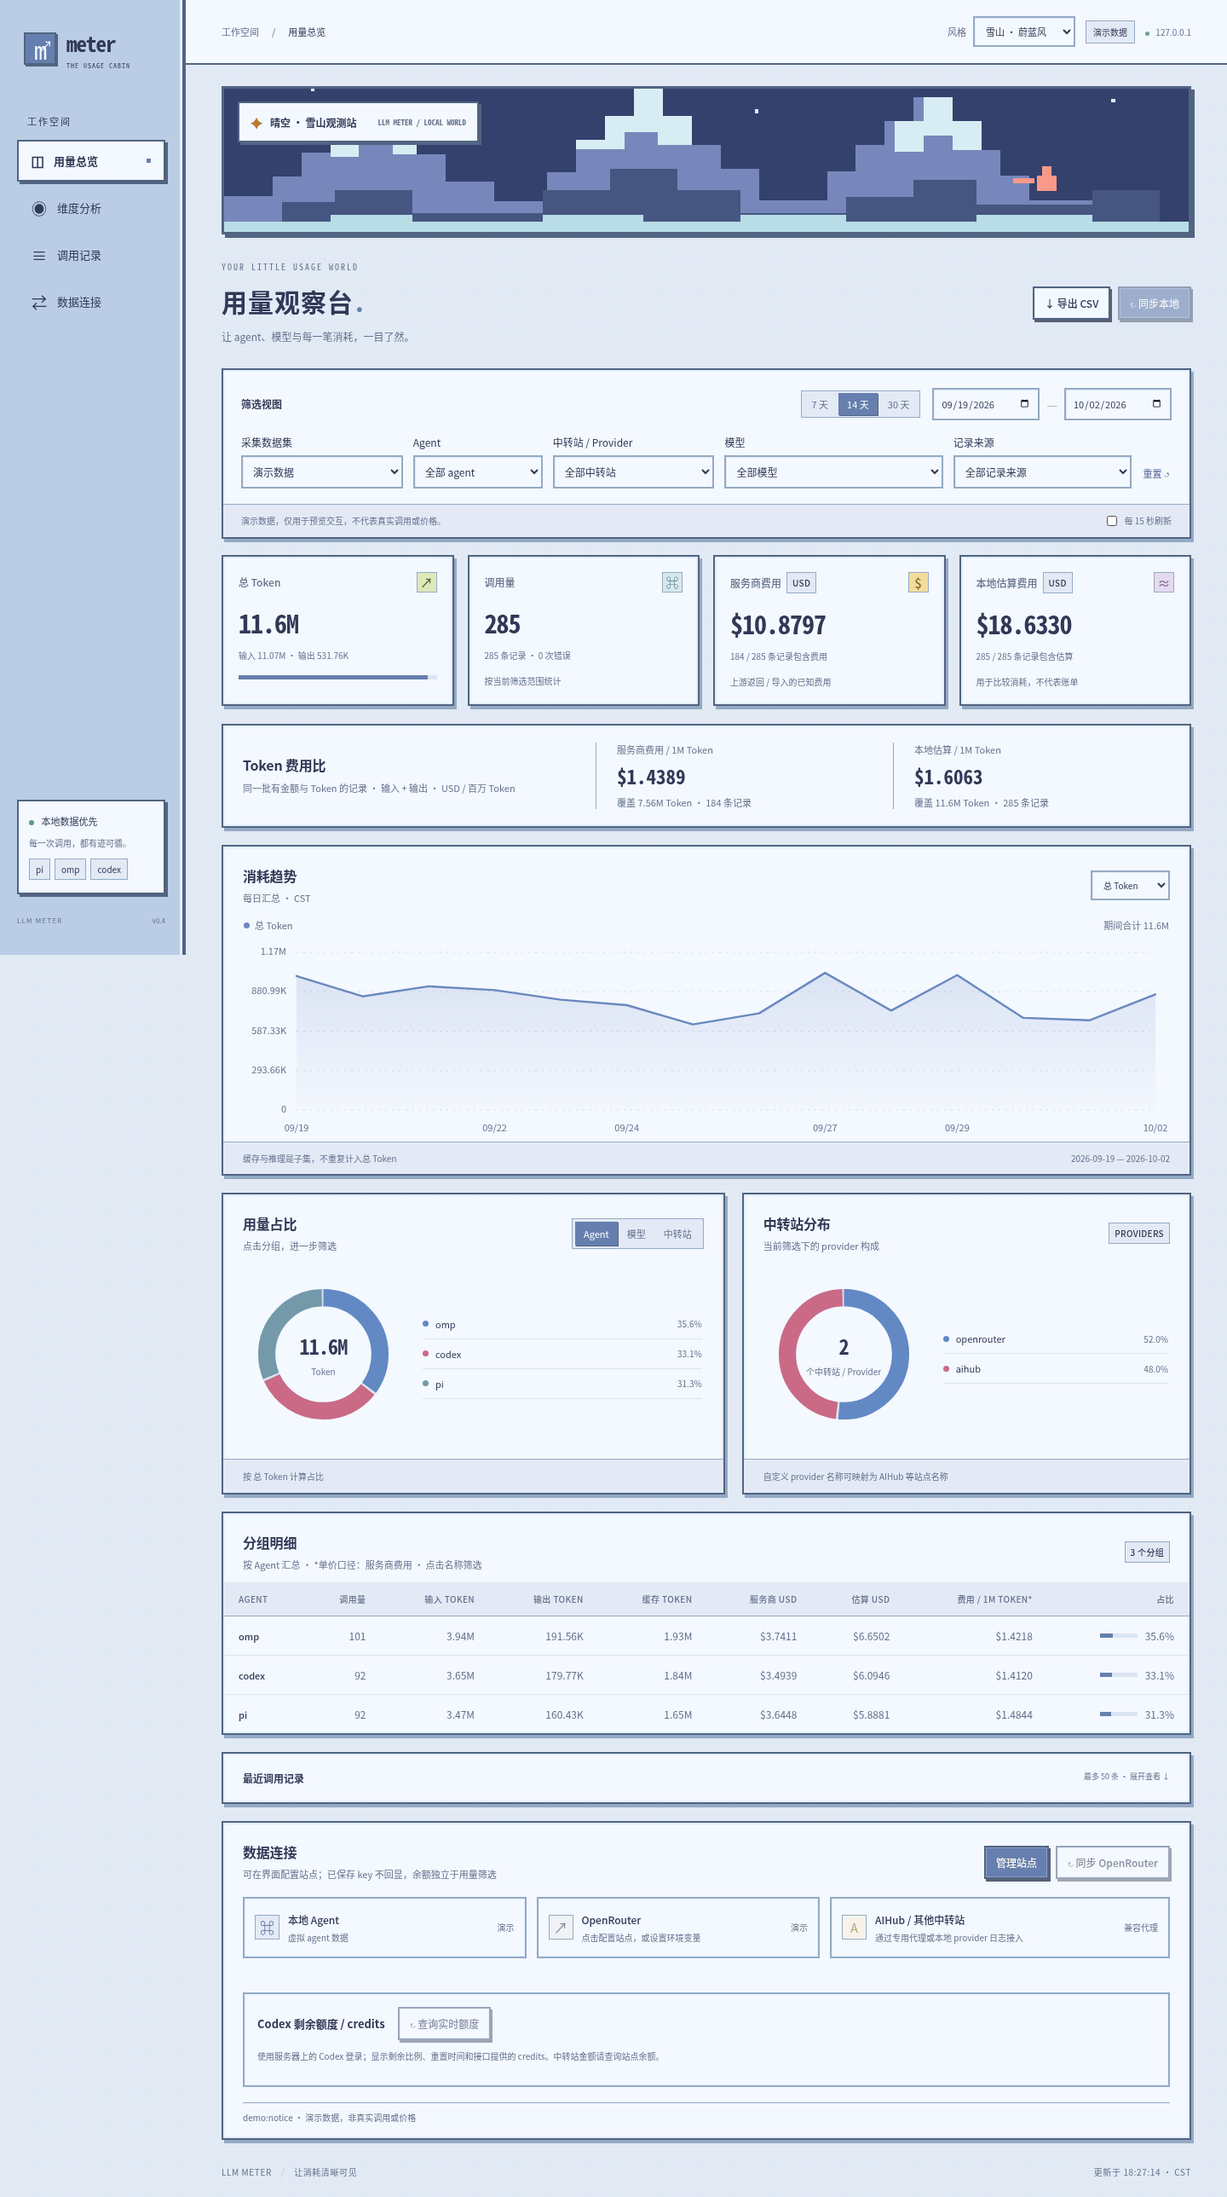
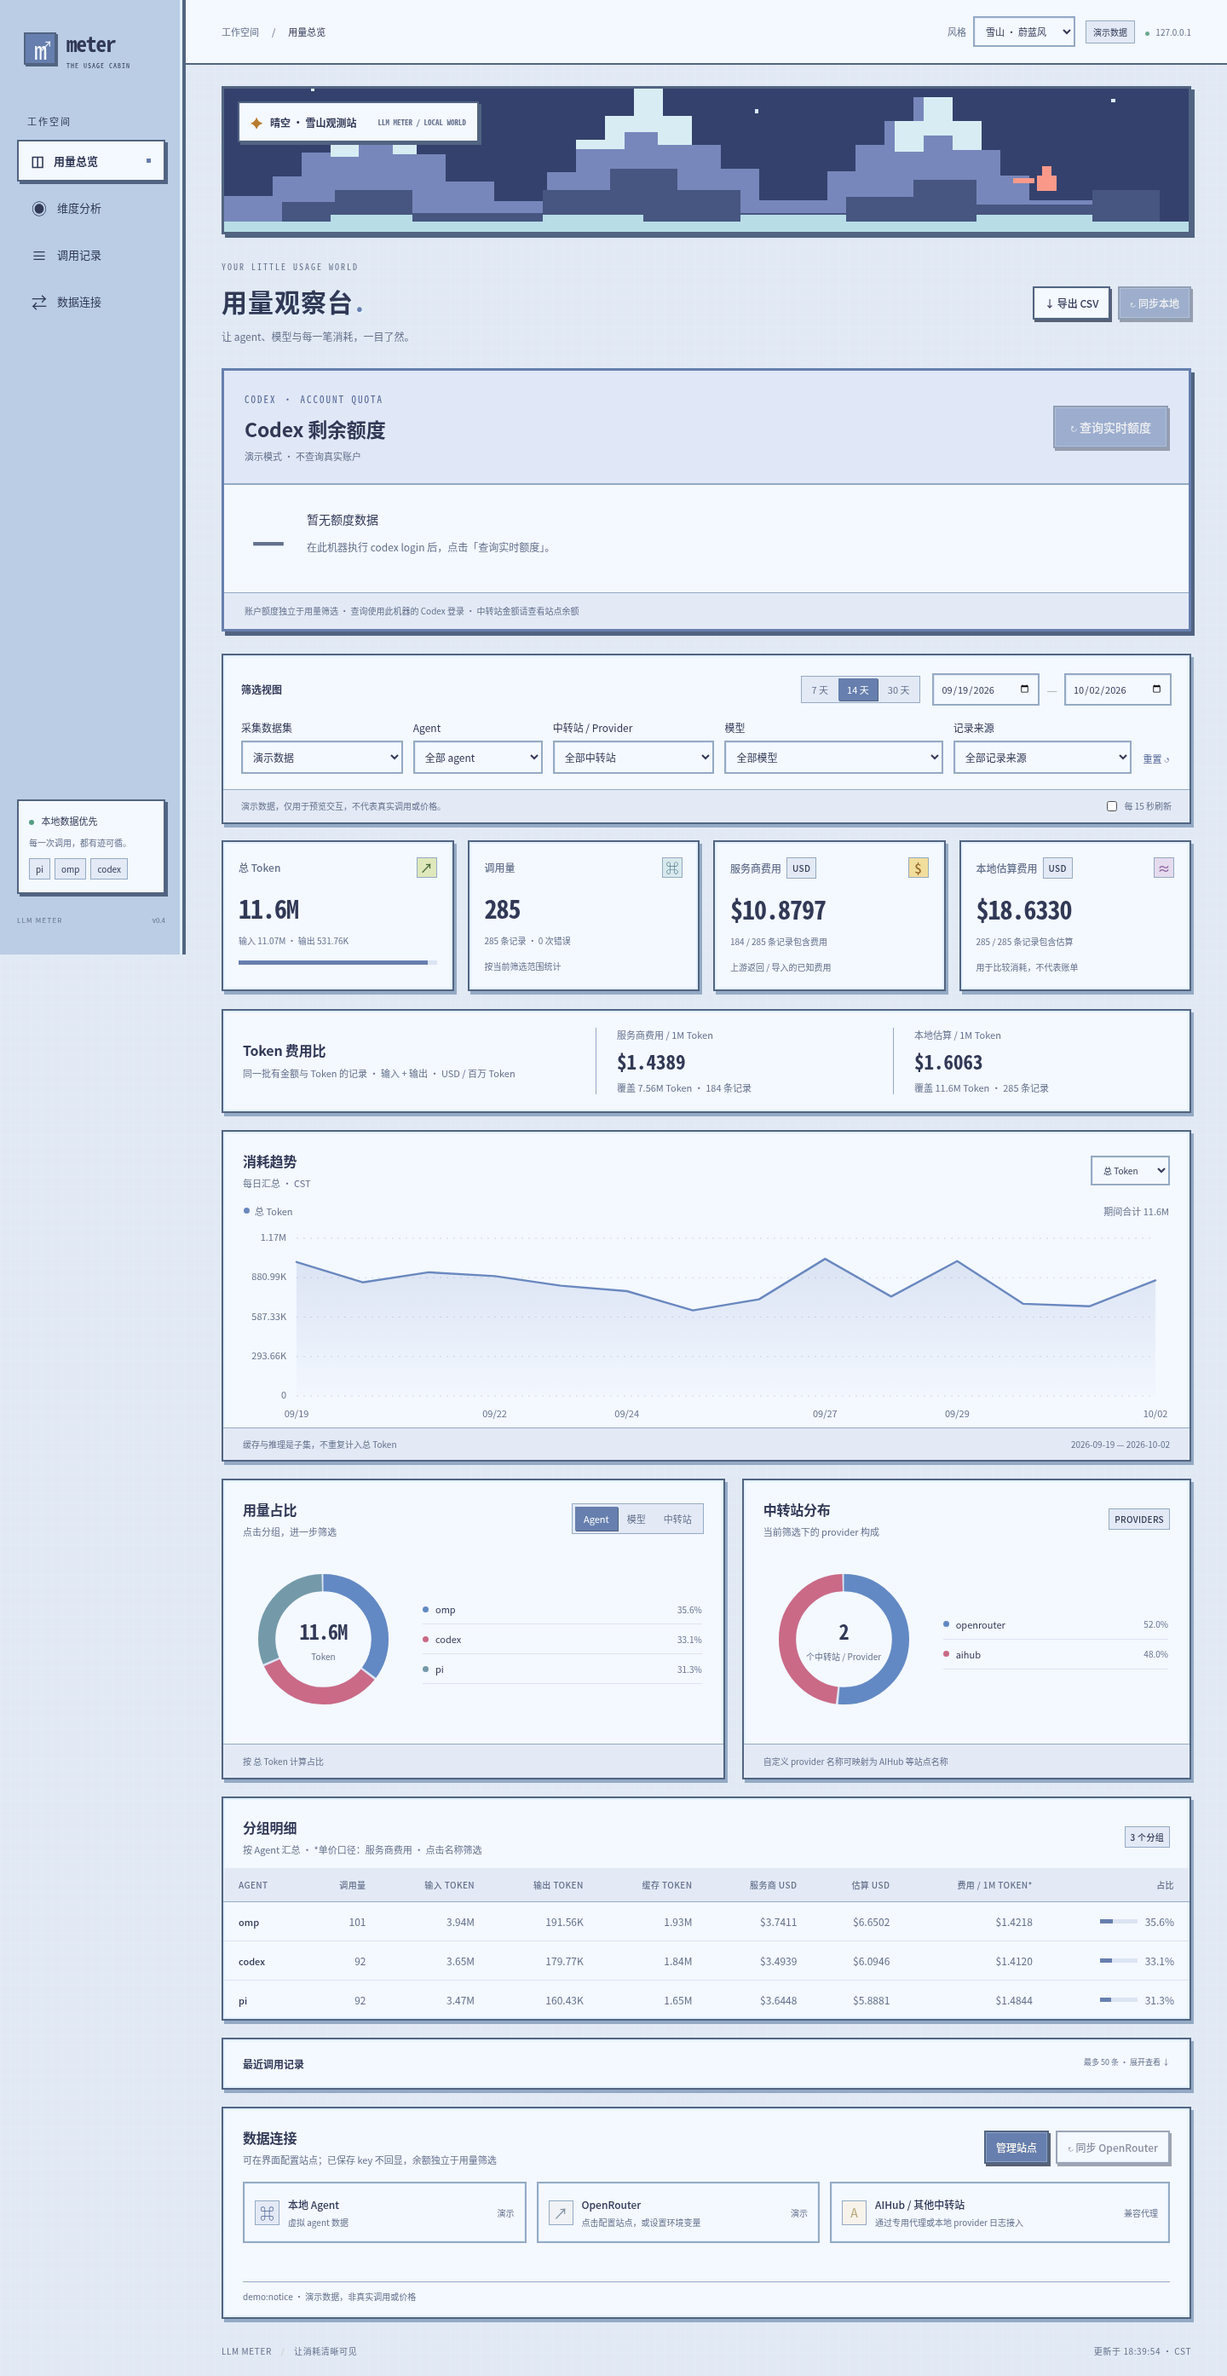
feat: highlight Codex remaining quotas at the top of dashboard

diff --git a/meter_static/app.js b/meter_static/app.js
@@ -79,7 +79,25 @@ $(svgId).querySelectorAll('[data-index]').forEach(segment=>{const g=visible[Numb
 function renderTable(groups){$('groupTable').innerHTML=groups.length?groups.map((r,i)=>`<tr><td><button class="group-button" data-index="${i}" title="${escaped(label(r.name))}">${escaped(label(r.name))}</button></td><td class="num">${full(r.requests)}</td><td class="num">${compact(r.input_tokens)}</td><td class="num">${compact(r.output_tokens)}</td><td class="num">${compact(r.cached_tokens)}</td><td class="num">${r.cost_records?dollars(r.cost):'—'}</td><td class="num">${r.estimated_cost_records?dollars(r.estimated_cost):'—'}</td><td class="num">${r[($('money').value==='estimated'?'estimated_cost':'cost')+'_per_million']===null?'—':dollars(r[($('money').value==='estimated'?'estimated_cost':'cost')+'_per_million'])}</td><td class="num"><div class="share-cell"><span class="share-bar"><i style="width:${r.share*100}%"></i></span>${(r.share*100).toFixed(1)}%</div></td></tr>`).join(''):'<tr><td colspan="9" class="empty-cell">当前筛选没有记录 · 可以切换数据集或同步本地会话</td></tr>';
 $('groupTable').querySelectorAll('[data-index]').forEach(b=>b.onclick=()=>drill(grouping,groups[Number(b.dataset.index)].name));}
 function renderRecent(rows){$('recentTable').innerHTML=rows.length?rows.map(r=>`<tr><td>${escaped(new Date(r.ts*1000).toLocaleString('zh-CN',{month:'2-digit',day:'2-digit',hour:'2-digit',minute:'2-digit'}))}</td><td>${escaped(label(r.agent))}</td><td>${escaped(label(r.provider))}</td><td title="${escaped(r.model)}">${escaped(r.model)}</td><td class="num">${compact(r.input_tokens+r.output_tokens)}</td><td class="num">${r.cost===null?'—':dollars(r.cost)}</td><td class="num">${r.estimated_cost===null?'—':dollars(r.estimated_cost)}</td><td><span class="status-chip ${['error','missing_usage'].includes(r.status)?r.status:''}">${escaped({ok:'完成',error:'错误',missing_usage:'缺少 usage'}[r.status]||r.status)}</span></td></tr>`).join(''):'<tr><td colspan="8" class="empty-cell">没有匹配的调用记录</td></tr>';}
-function renderConnections(data){const c=data.connections;const available=c.openrouter_key||c.openrouter_management;
+function renderCodexQuota(data){
+ const snapshots=data.snapshots.filter(s=>s.source.startsWith('codex:')&&s.data.rate_limits).sort((a,b)=>b.timestamp-a.timestamp);
+ const snap=snapshots[0];$('codexQuotaCards').replaceChildren();
+ if(!snap){$('codexQuotaStatus').textContent=data.demo?'演示模式 · 不查询真实账户':'尚未查询 · 点击按钮获取当前额度';$('codexQuotaCards').innerHTML='<div class="quota-empty"><strong>—</strong><div>暂无额度数据<p>在此机器执行 codex login 后，点击「查询实时额度」。</p></div></div>';return;}
+ const limits=Array.isArray(snap.data.rate_limits)?snap.data.rate_limits:[snap.data.rate_limits];
+ $('codexQuotaStatus').textContent=(snap.data.live?'实时查询结果':'日志快照')+' · '+new Date(snap.timestamp*1000).toLocaleString('zh-CN')+' · '+snap.source+(Date.now()/1000-snap.timestamp>300?' · 数据较旧，建议重新查询':'');
+ for(const limit of limits){if(!limit)continue;for(const key of ['primary','secondary']){const w=limit[key];if(!w)continue;
+ const raw=w.usedPercent??w.used_percent;const used=raw==null?NaN:Number(raw);const remaining=Number.isFinite(used)?Math.max(0,Math.min(100,100-used)):null;
+ const minutes=w.windowDurationMins??w.window_minutes;const reset=w.resetsAt??w.resets_at;
+ const title=(limit.limitName||limit.limitId||snap.source.replace('codex:',''))+' · '+(key==='primary'?'主额度':'次额度');
+ const value=remaining===null?'未知':new Intl.NumberFormat('zh-CN',{maximumFractionDigits:1}).format(remaining)+'%';
+ const card=document.createElement('article');card.className='quota-card'+(remaining!==null&&remaining<=10?' depleted':remaining!==null&&remaining<=25?' low':'');
+ card.innerHTML=`<div class="quota-card-label">${escaped(title)}<span>${escaped(minutes==null?'未知窗口':minutes>=1440?minutes/1440+' 天窗口':minutes>=60?minutes/60+' 小时窗口':minutes+' 分钟窗口')}</span></div><div class="quota-value">${value}<small>剩余</small></div><div class="quota-meter" role="meter" aria-label="${escaped(title)}剩余额度" ${remaining===null?'':'aria-valuemin="0" aria-valuemax="100" aria-valuenow="'+remaining+'"'}><i style="width:${remaining??0}%"></i></div><div class="quota-reset">${remaining!==null&&remaining<=10?'额度偏低 · ':''}${reset?'重置于 '+escaped(new Date(reset*1000).toLocaleString('zh-CN')):'重置时间未提供'}</div>`;
+ $('codexQuotaCards').append(card);
+ }
+ if(limit.credits){const card=document.createElement('article');card.className='quota-card credits-card';card.innerHTML=`<div class="quota-card-label">可用 credits</div><div class="quota-value">${escaped(limit.credits.unlimited?'不限额':limit.credits.balance??'未知')}</div><div class="quota-reset">接口 credits 原值 · 非美元余额</div>`;$('codexQuotaCards').append(card);}}
+ if(!$('codexQuotaCards').childElementCount)$('codexQuotaCards').innerHTML='<div class="quota-empty">接口尚未提供窗口额度或 credits</div>';
+}
+function renderConnections(data){renderCodexQuota(data);const c=data.connections;const available=c.openrouter_key||c.openrouter_management;
 $('localState').textContent=data.demo?'演示':c.local_sync?'已接入':'已暂停';$('localConnection').textContent=data.demo?'虚拟 agent 数据':c.local_sync?'自动扫描 pi · omp · codex':'--no-sync 模式';
 $('routerState').textContent=data.demo?'演示':available?'已配置':'待配置';$('routerConnection').textContent=c.openrouter_management?'管理 key 已配置 · 可同步模型历史':c.openrouter_key?'普通 key 已配置 · 可同步费用摘要':'点击配置站点，或设置环境变量';
 $('routerSyncBtn').disabled=data.demo||!available;$('routerSyncBtn').title=available?'查询远端用量，不发起模型推理':'请先点击配置站点填写 key';$('codexLimitsBtn').disabled=data.demo;$('syncBtn').disabled=data.demo||!c.local_sync;

diff --git a/meter_static/index.html b/meter_static/index.html
@@ -33,6 +33,11 @@
 </svg><div class="landscape-caption"><span class="season-marker">✦</span><span id="sceneCaption">晴天 · 用量小屋</span><span class="scene-coordinate">LLM METER / LOCAL WORLD</span></div>
 </section>
   <div class="page-heading"><div><div class="eyebrow">YOUR LITTLE USAGE WORLD</div><h1>用量观察台<span class="heading-dot">.</span></h1><p>让 agent、模型与每一笔消耗，一目了然。</p></div><div class="heading-actions"><button id="exportBtn" class="button secondary">↓ 导出 CSV</button><button id="syncBtn" class="button primary">↻ 同步本地</button></div></div>
+  <section class="panel quota-dashboard" aria-label="Codex 剩余额度">
+    <div class="quota-heading"><div><span class="quota-eyebrow">CODEX · ACCOUNT QUOTA</span><h2>Codex 剩余额度</h2><p id="codexQuotaStatus">尚未查询 · 点击右侧按钮获取当前额度</p></div><button id="codexLimitsBtn" class="button primary">↻ 查询实时额度</button></div>
+    <div id="codexQuotaCards" class="quota-cards" aria-live="polite"></div>
+    <div class="quota-foot">账户额度独立于用量筛选 · 查询使用此机器的 Codex 登录 · 中转站金额请查看站点余额</div>
+  </section>
   <div id="feedback" class="feedback" role="status" hidden></div>
   <section class="filter-panel" aria-label="统计筛选">
     <div class="filter-top"><span class="section-label">筛选视图</span><div class="date-controls"><div class="range-buttons" id="rangeButtons"><button data-days="7">7 天</button><button class="selected" data-days="14">14 天</button><button data-days="30">30 天</button></div><input type="date" id="startDate" aria-label="开始日期"><span class="date-dash">—</span><input type="date" id="endDate" aria-label="结束日期"></div></div>
@@ -69,7 +74,7 @@
   </section>
   <section class="panel table-panel"><div class="panel-heading"><div><h2>分组明细</h2><p id="tableSubtitle">按 Agent 汇总</p></div><span id="groupCount" class="small-tag"></span></div><div class="table-scroll"><table><thead><tr><th id="dimensionLabel">AGENT</th><th>调用量</th><th>输入 TOKEN</th><th>输出 TOKEN</th><th>缓存 TOKEN</th><th>服务商 USD</th><th>估算 USD</th><th>费用 / 1M TOKEN*</th><th>占比</th></tr></thead><tbody id="groupTable"></tbody></table></div></section>
   <details class="panel records-panel" id="records"><summary><span>最近调用记录</span><span class="records-hint">最多 50 条 · 展开查看 ↓</span></summary><div class="table-scroll"><table><thead><tr><th>时间</th><th>Agent</th><th>中转站</th><th>模型</th><th>TOKEN</th><th>服务商 USD</th><th>估算 USD</th><th>状态</th></tr></thead><tbody id="recentTable"></tbody></table></div></details>
-  <section class="panel connection-panel" id="connections"><div class="panel-heading"><div><h2>数据连接</h2><p>可在界面配置站点；已保存 key 不回显，余额独立于用量筛选</p></div><div class="connection-actions"><button id="configureSitesBtn" class="button primary">管理站点</button><button id="routerSyncBtn" class="button secondary">↻ 同步 OpenRouter</button></div></div><div class="connection-grid"><div class="connection-item"><span class="connection-logo">⌘</span><div><strong>本地 Agent</strong><p id="localConnection">pi · omp · codex</p></div><span class="connection-status" id="localState">就绪</span></div><div class="connection-item"><span class="connection-logo router">↗</span><div><strong>OpenRouter</strong><p id="routerConnection">等待配置环境变量</p></div><span class="connection-status" id="routerState">待接入</span></div><div class="connection-item"><span class="connection-logo hub">A</span><div><strong>AIHub / 其他中转站</strong><p>通过专用代理或本地 provider 日志接入</p></div><span class="connection-status muted">兼容代理</span></div></div><div id="balanceCards" class="balance-cards"></div><div class="codex-quota"><strong>Codex 剩余额度 / credits</strong><button id="codexLimitsBtn" class="button secondary">↻ 查询实时额度</button><p>使用服务器上的 Codex 登录；显示剩余比例、重置时间和接口提供的 credits。中转站金额请查询站点余额。</p></div><div id="snapshots" class="snapshot-list"></div></section>
+  <section class="panel connection-panel" id="connections"><div class="panel-heading"><div><h2>数据连接</h2><p>可在界面配置站点；已保存 key 不回显，余额独立于用量筛选</p></div><div class="connection-actions"><button id="configureSitesBtn" class="button primary">管理站点</button><button id="routerSyncBtn" class="button secondary">↻ 同步 OpenRouter</button></div></div><div class="connection-grid"><div class="connection-item"><span class="connection-logo">⌘</span><div><strong>本地 Agent</strong><p id="localConnection">pi · omp · codex</p></div><span class="connection-status" id="localState">就绪</span></div><div class="connection-item"><span class="connection-logo router">↗</span><div><strong>OpenRouter</strong><p id="routerConnection">等待配置环境变量</p></div><span class="connection-status" id="routerState">待接入</span></div><div class="connection-item"><span class="connection-logo hub">A</span><div><strong>AIHub / 其他中转站</strong><p>通过专用代理或本地 provider 日志接入</p></div><span class="connection-status muted">兼容代理</span></div></div><div id="balanceCards" class="balance-cards"></div><div id="snapshots" class="snapshot-list"></div></section>
   <div id="qualityNotes" class="quality-note"></div>
   <footer class="page-footer"><span>LLM METER <span class="footer-divider">/</span> 让消耗清晰可见</span><span id="updatedAt">等待数据</span></footer>
 </div>

diff --git a/meter_static/style.css b/meter_static/style.css
@@ -28,3 +28,5 @@ body{background-color:var(--bg);background-image:linear-gradient(90deg,#ffffff18
 @media(max-width:1200px){.filter-grid{grid-template-columns:1fr 1fr 1fr}.filter-grid .reset-button{justify-self:end}.stat-value{font-size:27px}.scene-coordinate{display:none}}
 @media(max-width:900px){.filter-grid{grid-template-columns:1fr 1fr}.topbar{padding:0 20px}.landscape{height:150px}.stat-value{font-size:28px}.topbar-right{gap:8px}.theme-picker{font-size:0}.sidebar{padding-left:8px;padding-right:8px}.nav-link{font-size:0}.panel-heading p{font-size:10px}}
 @media(max-width:600px){.topbar{height:auto;min-height:66px;padding:12px 15px;gap:10px;flex-wrap:wrap}.topbar-right{margin-left:auto}.topbar-right .local-status{display:none}.theme-picker select{max-width:160px;font-size:11px}.page{padding:20px 14px}.landscape{height:132px;margin-bottom:25px}.landscape-caption{top:12px;left:12px;font-size:11px;padding:6px 9px}.page-heading{gap:12px}h1{font-size:25px;letter-spacing:0}.page-heading p{font-size:11px;max-width:200px}.eyebrow{font-size:8px;letter-spacing:1px}.heading-actions .button{font-size:10px;padding:8px}.stat-card{padding:14px 12px}.stat-head{font-size:10px}.stat-value{font-size:25px}.stat-detail{font-size:9px}.stat-foot{font-size:9px}.small-tag{font-size:8px}.filter-footer>span{font-size:9px}.auto-refresh{font-size:9px}.donut-layout{gap:10px}.donut-center span{font-size:8px}.legend-row{font-size:10px}.dimension-switch button{font-size:10px;padding:6px}.panel-heading{gap:6px}h2{font-size:15px}.chart-controls select{font-size:10px;max-width:105px}.unit-stat strong{font-size:20px}.connection-actions{flex-wrap:wrap}.settings-layout{grid-template-columns:1fr}.settings-dialog{padding:20px}.codex-quota{margin-left:16px;margin-right:16px}.codex-quota .button{margin-top:8px}.page-footer{font-size:8px;gap:10px}.balance-card-header{font-size:12px}}
+
+.quota-dashboard{margin-bottom:26px;border:3px solid var(--green);box-shadow:4px 5px var(--frame);overflow:hidden}.quota-heading{padding:22px 24px;display:flex;align-items:center;justify-content:space-between;gap:16px;background:var(--green-light);border-bottom:2px solid var(--line)}.quota-eyebrow{font:11px ui-monospace,monospace;letter-spacing:2px;color:var(--green-dark)}.quota-heading h2{font-size:23px;margin:9px 0 6px}.quota-heading p{color:var(--muted);font-size:11px;margin:0;line-height:1.8;overflow-wrap:anywhere}.quota-heading .button{font-size:14px;padding:13px 18px}.quota-cards{display:grid;grid-template-columns:repeat(auto-fit,minmax(230px,1fr));gap:18px;padding:22px 24px}.quota-card{border:2px solid var(--line);padding:18px;background:var(--panel);min-width:0}.quota-card-label{color:var(--ink);font-size:12px;font-weight:650;display:flex;gap:10px;justify-content:space-between;flex-wrap:wrap;overflow-wrap:anywhere}.quota-card-label span{color:var(--muted);font-size:11px;font-weight:400}.quota-value{font:700 44px ui-monospace,monospace;color:var(--green-dark);margin:15px 0;overflow-wrap:anywhere}.quota-value small{font:12px var(--font);margin-left:10px;color:var(--muted)}.quota-meter{height:14px;background:var(--track);border:1px solid var(--line);padding:2px}.quota-meter i{display:block;height:100%;background:var(--green)}.quota-reset{font-size:11px;color:var(--muted);margin-top:12px;line-height:1.8}.quota-card.low{border-color:#ad7d30}.quota-card.low .quota-value{color:#946320}.quota-card.low .quota-meter i{background:#ad7d30}.quota-card.depleted{border-color:#aa5148}.quota-card.depleted .quota-value,.quota-card.depleted .quota-reset{color:#a1433c}.quota-card.depleted .quota-meter i{background:#aa5148}.quota-empty{grid-column:1/-1;display:flex;align-items:center;gap:25px;color:var(--ink);padding:8px}.quota-empty strong{font:700 44px ui-monospace,monospace;color:var(--muted)}.quota-empty p{font-size:12px;color:var(--muted);line-height:1.8}.quota-foot{font-size:10px;color:var(--muted);padding:12px 24px;border-top:1px solid var(--line);background:var(--soft);line-height:1.8}@media(max-width:600px){.quota-heading{padding:18px 16px;align-items:flex-start;flex-direction:column}.quota-heading h2{font-size:22px}.quota-heading .button{width:100%;font-size:13px}.quota-cards{padding:16px;grid-template-columns:1fr;gap:12px}.quota-value{font-size:40px}.quota-foot{padding:12px 16px}.quota-empty{padding:0;gap:18px}}

diff --git a/README.md b/README.md
@@ -894,3 +894,10 @@ python3 llm_meter.py web --codex-home /path/to/codex-home
 ![雪山像素主题](preview-summit.png)
 
 更新代码后重启网页服务，并刷新浏览器以加载新样式。
+
+
+### 页面顶部的 Codex 额度卡片
+
+页面标题下方固定展示 Codex 剩余额度，不必滚动到数据连接。主额度和次额度分别显示大号剩余百分比、进度条及重置时间；接口返回 credits 时单独展示。剩余不超过 25% 显示橙色，不超过 10% 显示红色。卡片注明实时查询或日志快照及更新时间，超过 5 分钟提醒重新查询；未知额度不会显示为 0%。点击卡片中的「查询实时额度」获取最新结果。
+
+![Codex 额度卡片（示例数据）](preview-quota.png)
